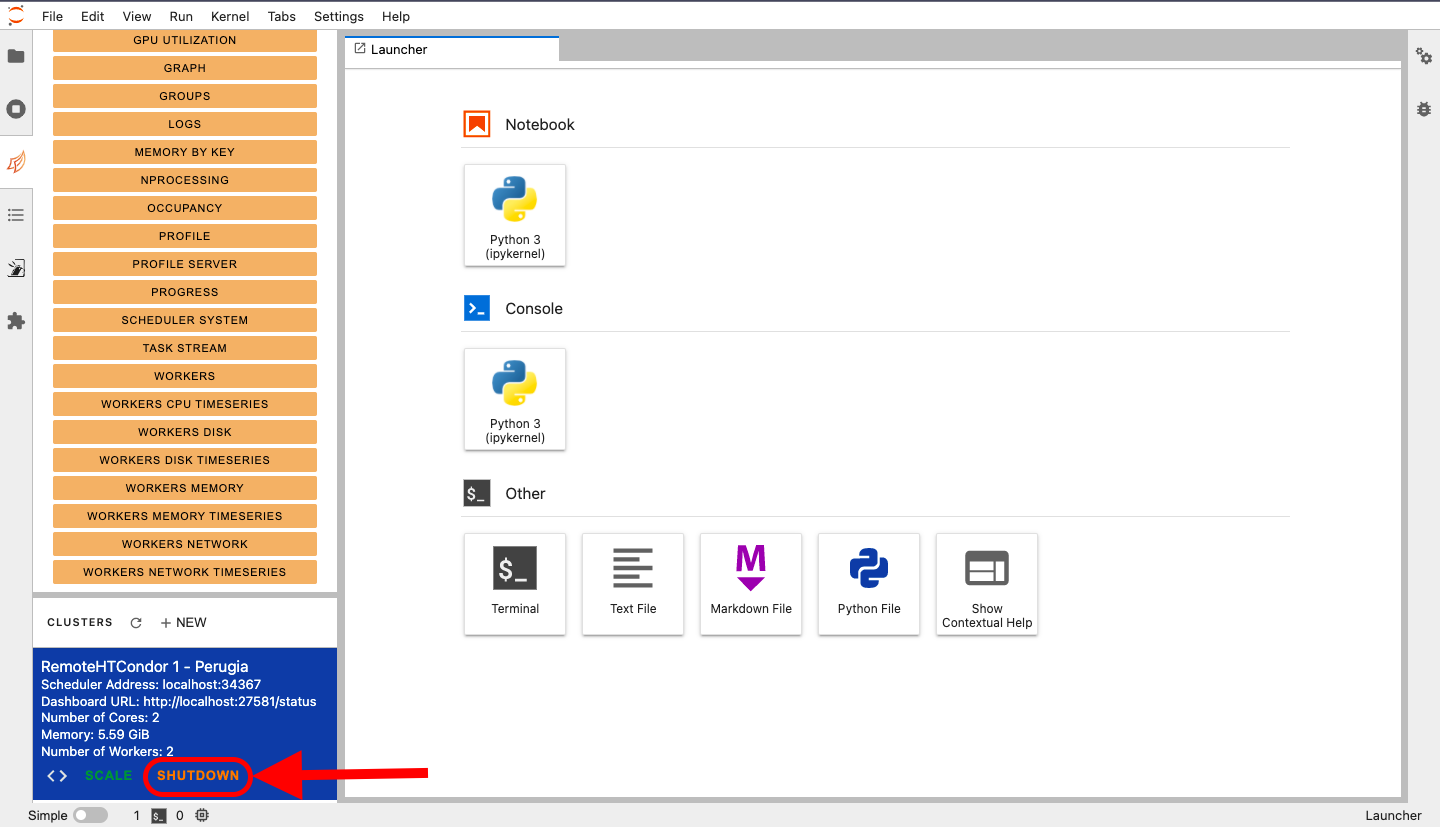
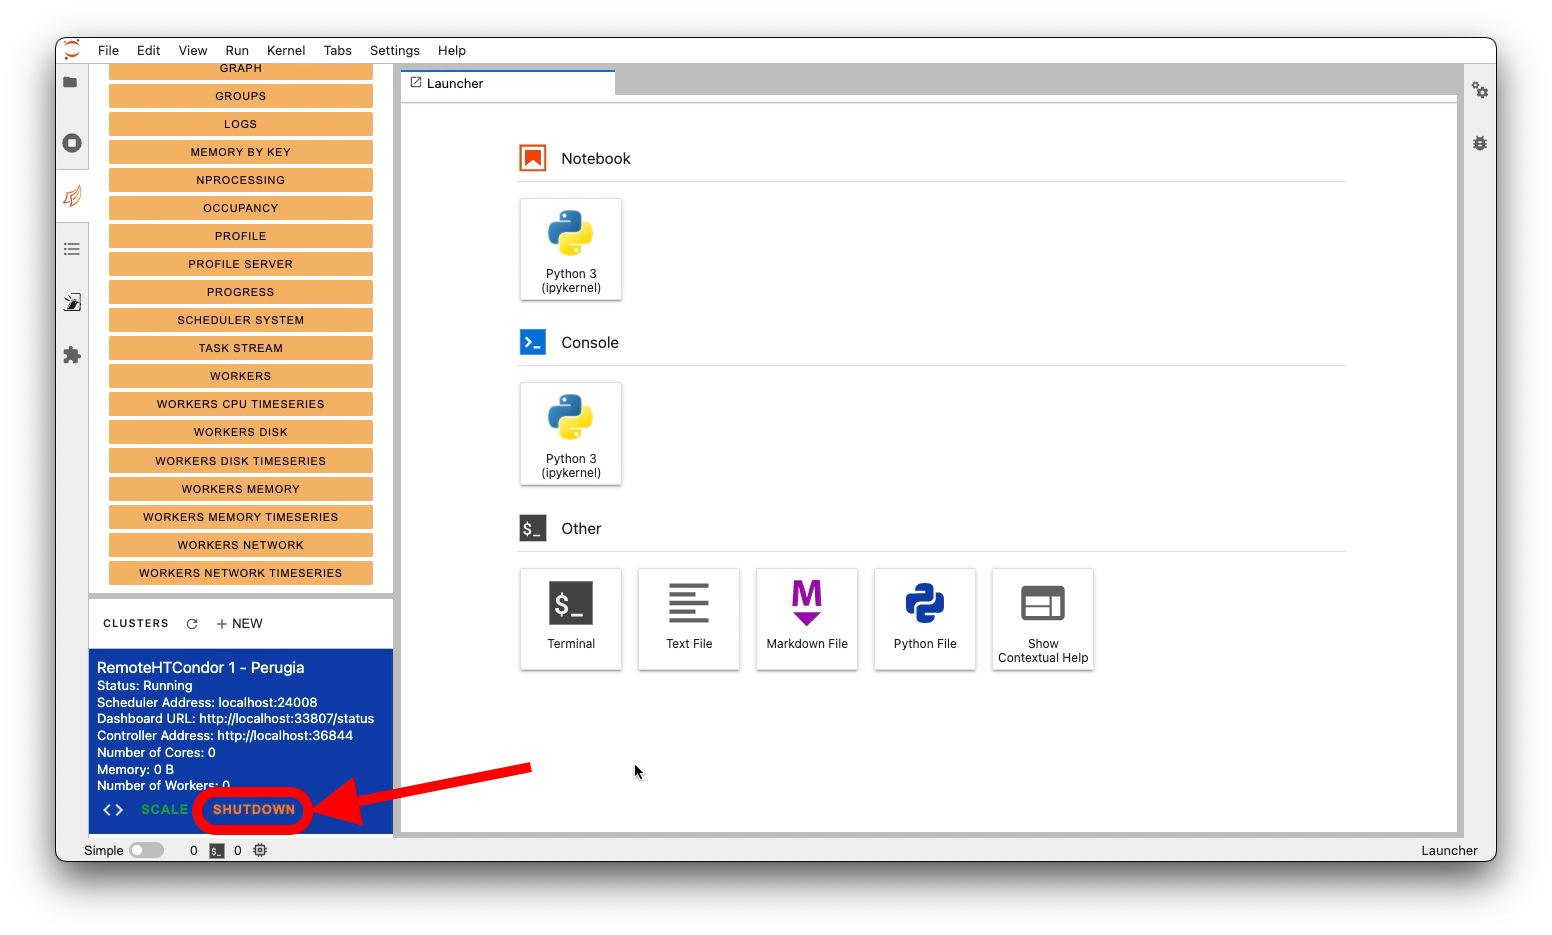
Dask init and script (#14)
* Add base dask init and management instructions

* Update TOC

* Update cluster init and management

* Fix typo

* Add python script guide

* Change check resource images

* Change scale images

* Change delete cluster image

* Update init guide

diff --git a/docs/tutorials/dask_init.md b/docs/tutorials/dask_init.md
@@ -41,9 +41,12 @@ the dashboard (blue square).
 
 ![dask cluster created](imgs/dask_init_created.png)
 
-> **NOTEs**: in the `Scheduler Address` field you will see the actual status of the
-> cluster creation. The cluster will be ready when there is present a valid
-> cluster address such as `localhost:12345`.
+> **NOTE**: in the `Status` field, you will see the actual state of the
+> cluster creation. The cluster will be ready when the state is `Running`.
+> In that situation, there will be a valid Scheduler address and Dashboard URL:
+> e.g. `localhost:12345`. During the creation, you could see `Status` like `Job is idle`
+> or `Waiting for connection`. In case of error, the `Status` will show the
+> reason for the issue.
 >
 > **NOTE**: it is not necessary to click on `Dashboard URL`, because the link
 > is not directly available outside the Dask Lab Extension. To select a cluster,

diff --git a/docs/tutorials/dask_scripting.md b/docs/tutorials/dask_scripting.md
@@ -55,6 +55,28 @@ cluster.scale(1)
 > cluster.scale(1)
 > sleep(60)
 > ```
+>
+> **NOTE**: it could be possible that the cluster controller is not yet reachable when you
+> try to `scale` your cluster. In this situation you could receive an exception like the following:
+>
+> ```python
+> /usr/local/[...]/dask_remote_jobqueue.py in scale(self, n)
+>     594 
+>     595         if not connected:
+> --> 596             raise Exception("Cluster is not reachable...")
+>     597 
+>     598         logger.debug("[Scheduler][scale][connection OK!]")
+>
+> Exception: Cluster is not reachable...
+> ```
+>
+> To fix this situation, just add a small sleep before the scale too, like follows:
+>
+> ```python
+> sleep(6) # Wait a bit before the scale
+> cluster.scale(1)
+> sleep(60)
+> ```
 
 Then, you can connect to the cluster with the Dask Client as follows:
 
